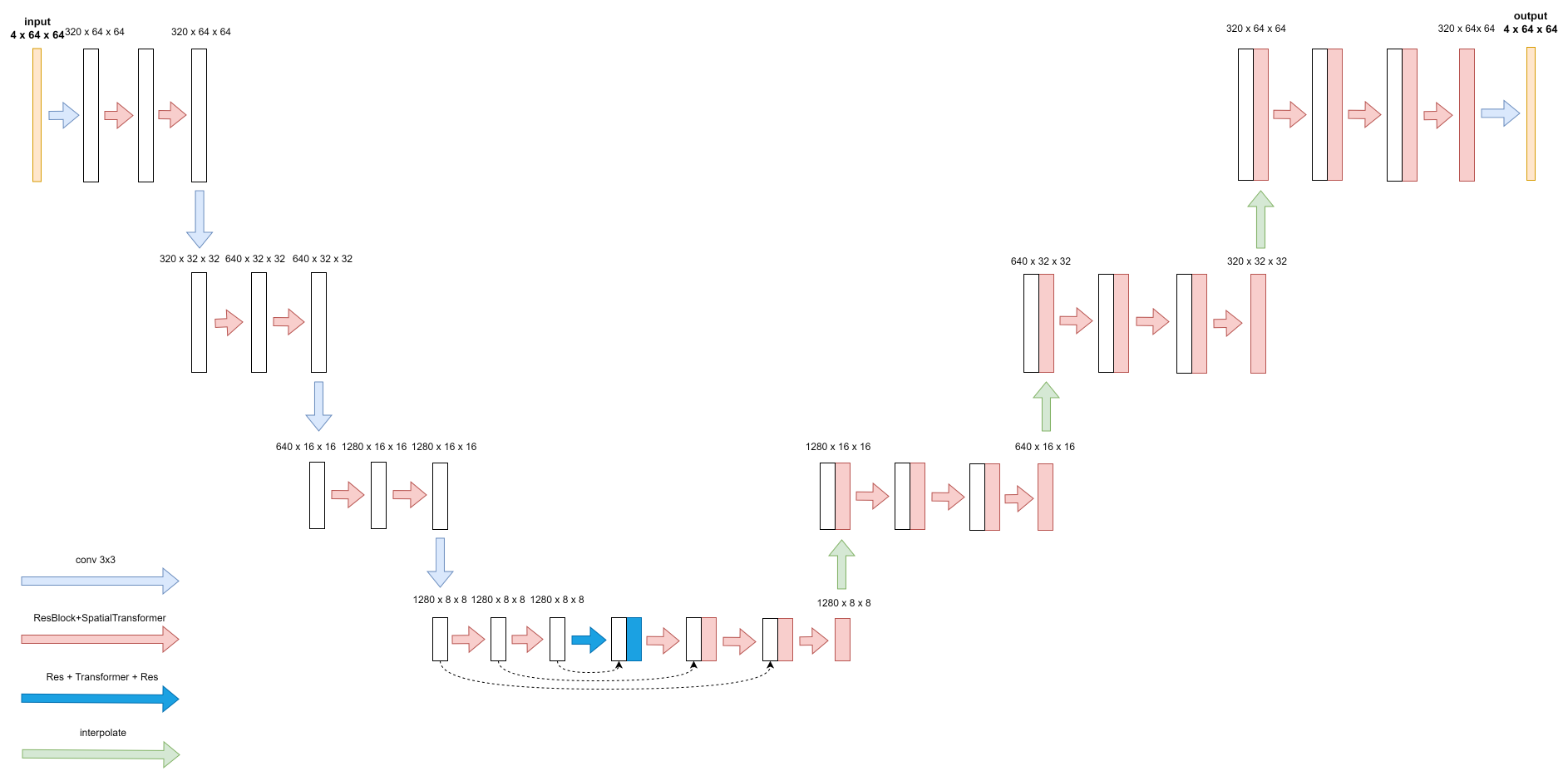
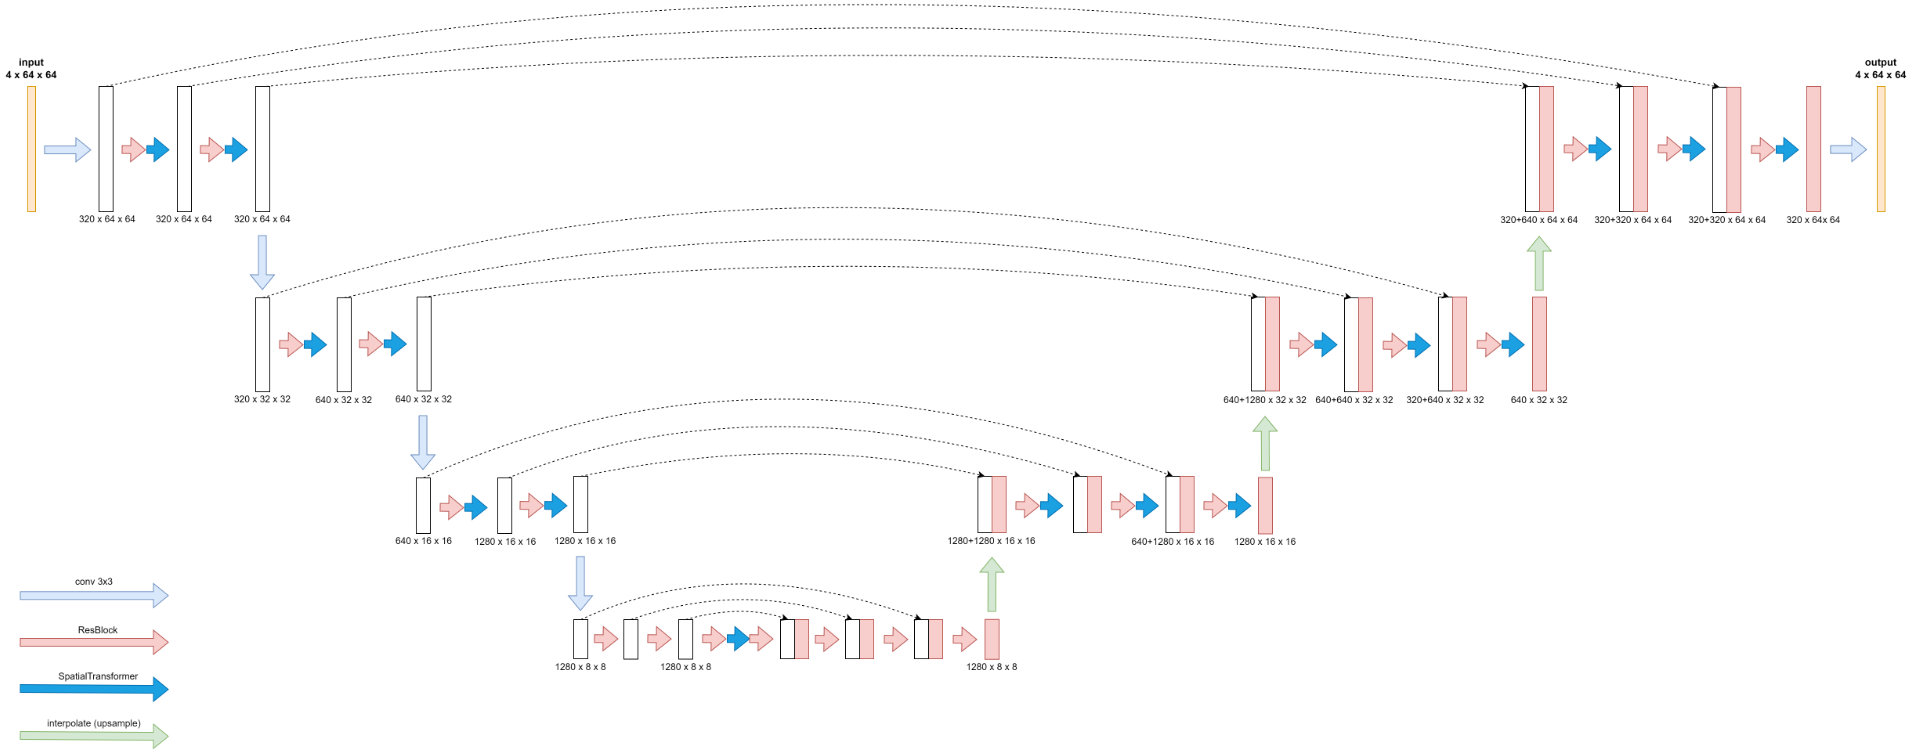
stable diffusion

Changed region(s): [[0.0, 0.0, 1.0, 0.9139], [0.0, 0.7311, 0.1225, 1.0]]

diff --git a/多模态/stable_diffusion.md b/多模态/stable_diffusion.md
@@ -1,3 +1,57 @@
 # stable_diffusion
 
-- todo
+> 参考: https://blog.csdn.net/jarodyv/article/details/131018599
+
+## 一、整体架构
+
+![sd](jpegs/sd.png)
+
+### 1. Autoencoder (自动编码器)
+> 左侧红色部分 --采用预训练好的模型
+
+- 将图像数据压缩成低维表示
+    1. 编码器E, 将图像编码为低维潜在数据
+    2. 解码器D, 将潜在数据解码回图像
+
+
+### 2. Text Encoder (条件机制)
+> 右侧灰色部分 --采用预训练好的模型
+
+- 将文本编码为向量，这里使用的是`CLIP`的Text Encoder
+- CLIP的训练流程如下:
+
+    ![CLIP](jpegs/CLIP.png)
+    1. image特征提取，使用resnet系列或者VIT系列
+    2. text特征提取，使用transformer的decoder
+    3. 两个特征计算余弦，同一pair对-->1，不同pair对-->0
+
+### 3. 去噪UNet (逆向扩散过程)
+> 核心训练部分
+
+#### 3.1 整体网络架构
+
+![unet](jpegs/unet.png)
+
+#### 3.2 ResBlock --融入时间信息
+
+![ResBlock](jpegs/ResBlock.png)
+
+#### 3.3 SpatialTransformer --融入文本信息
+
+![SpatialTransformer](jpegs/SpatialTransformer.png)
+
+## 二、训练步骤
+> 参考代码: https://github.com/Stability-AI/stablediffusion/blob/main/ldm/models/diffusion/ddpm.LatentDiffusion.p_losses
+
+```python
+def p_losses(self, x_start, cond, t, noise=None):
+    # 1. 随机生成noise
+    noise = default(noise, lambda: torch.randn_like(x_start))
+    # 2. 向图像中添加噪声
+    x_noisy = self.q_sample(x_start=x_start, t=t, noise=noise)
+    # 3. Unet预测noise
+    model_output = self.apply_model(x_noisy, t, cond)
+
+    # 4. 预测的noise与真实noise, 计算loss
+    loss_simple = self.get_loss(model_output, target, mean=False).mean([1, 2, 3])
+```

diff --git a/多模态/README.md b/多模态/README.md
@@ -1,9 +1,9 @@
 
-1. 多模态 (文-->图)
+1. 文-->图
     1. stable-diffusion
         > Hugging Face 地址: https://huggingface.co/stabilityai/stable-diffusion-3-medium
 
-2. 多模态 (图-->文)
+2. 图-->文
     > 参考链接: https://zhuanlan.zhihu.com/p/653902791
 
     |模型|文本编码|图像编码|图文结合部分|训练模块|

diff --git a/计算机视觉/yolo.md b/计算机视觉/yolo.md
@@ -36,7 +36,7 @@
 
 ### yolov5
 
-> 参考代码: https://github.com/ultralytics/yolov5/blob/master/utils/loss.py
+> 参考代码: https://github.com/ultralytics/yolov5/blob/master/utils/loss.ComputeLoss
 
 1. 边界框回归，使用CIoU Loss
     ```python
